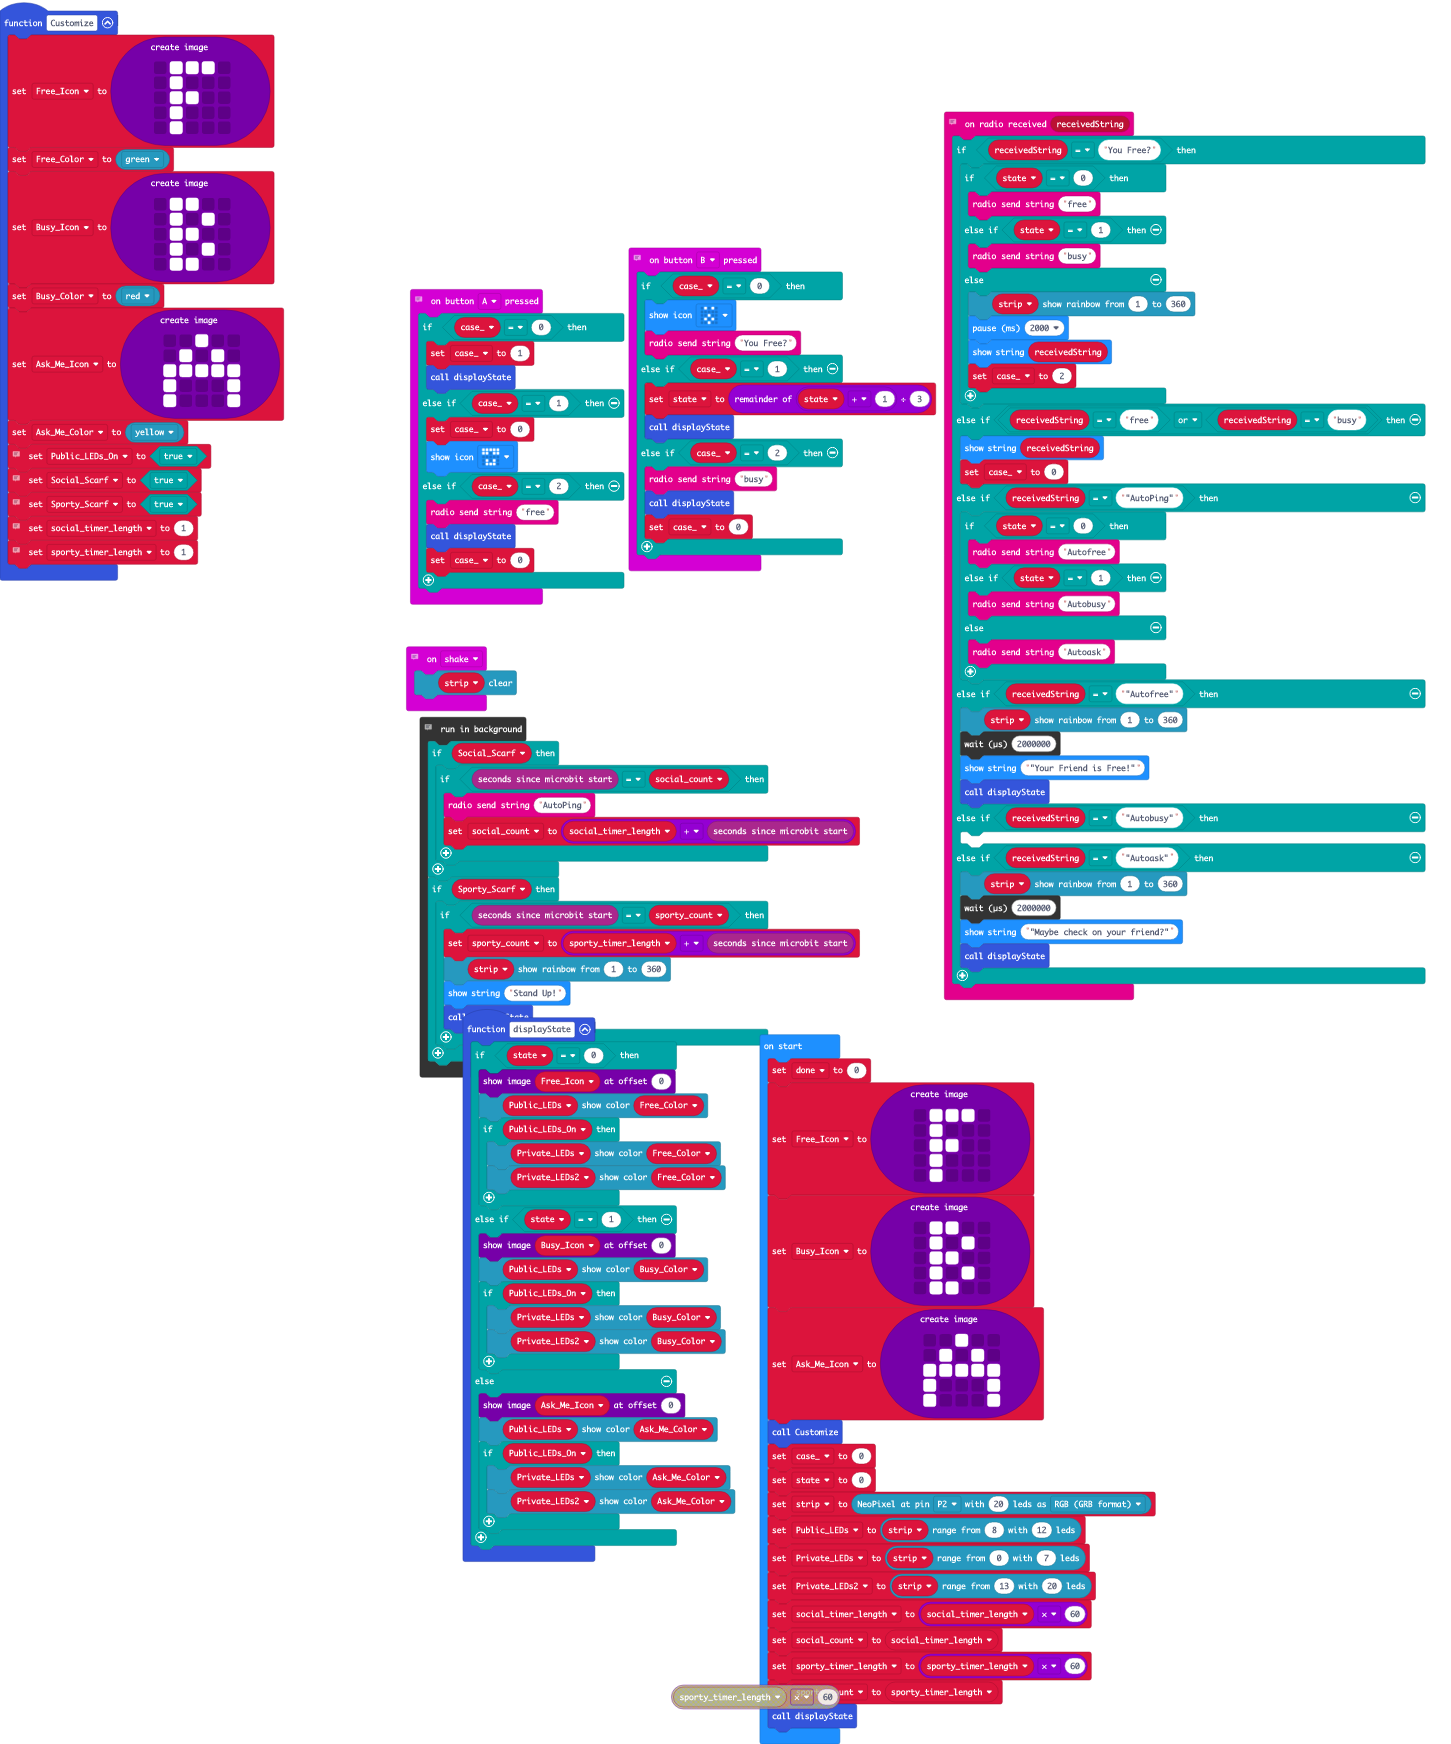
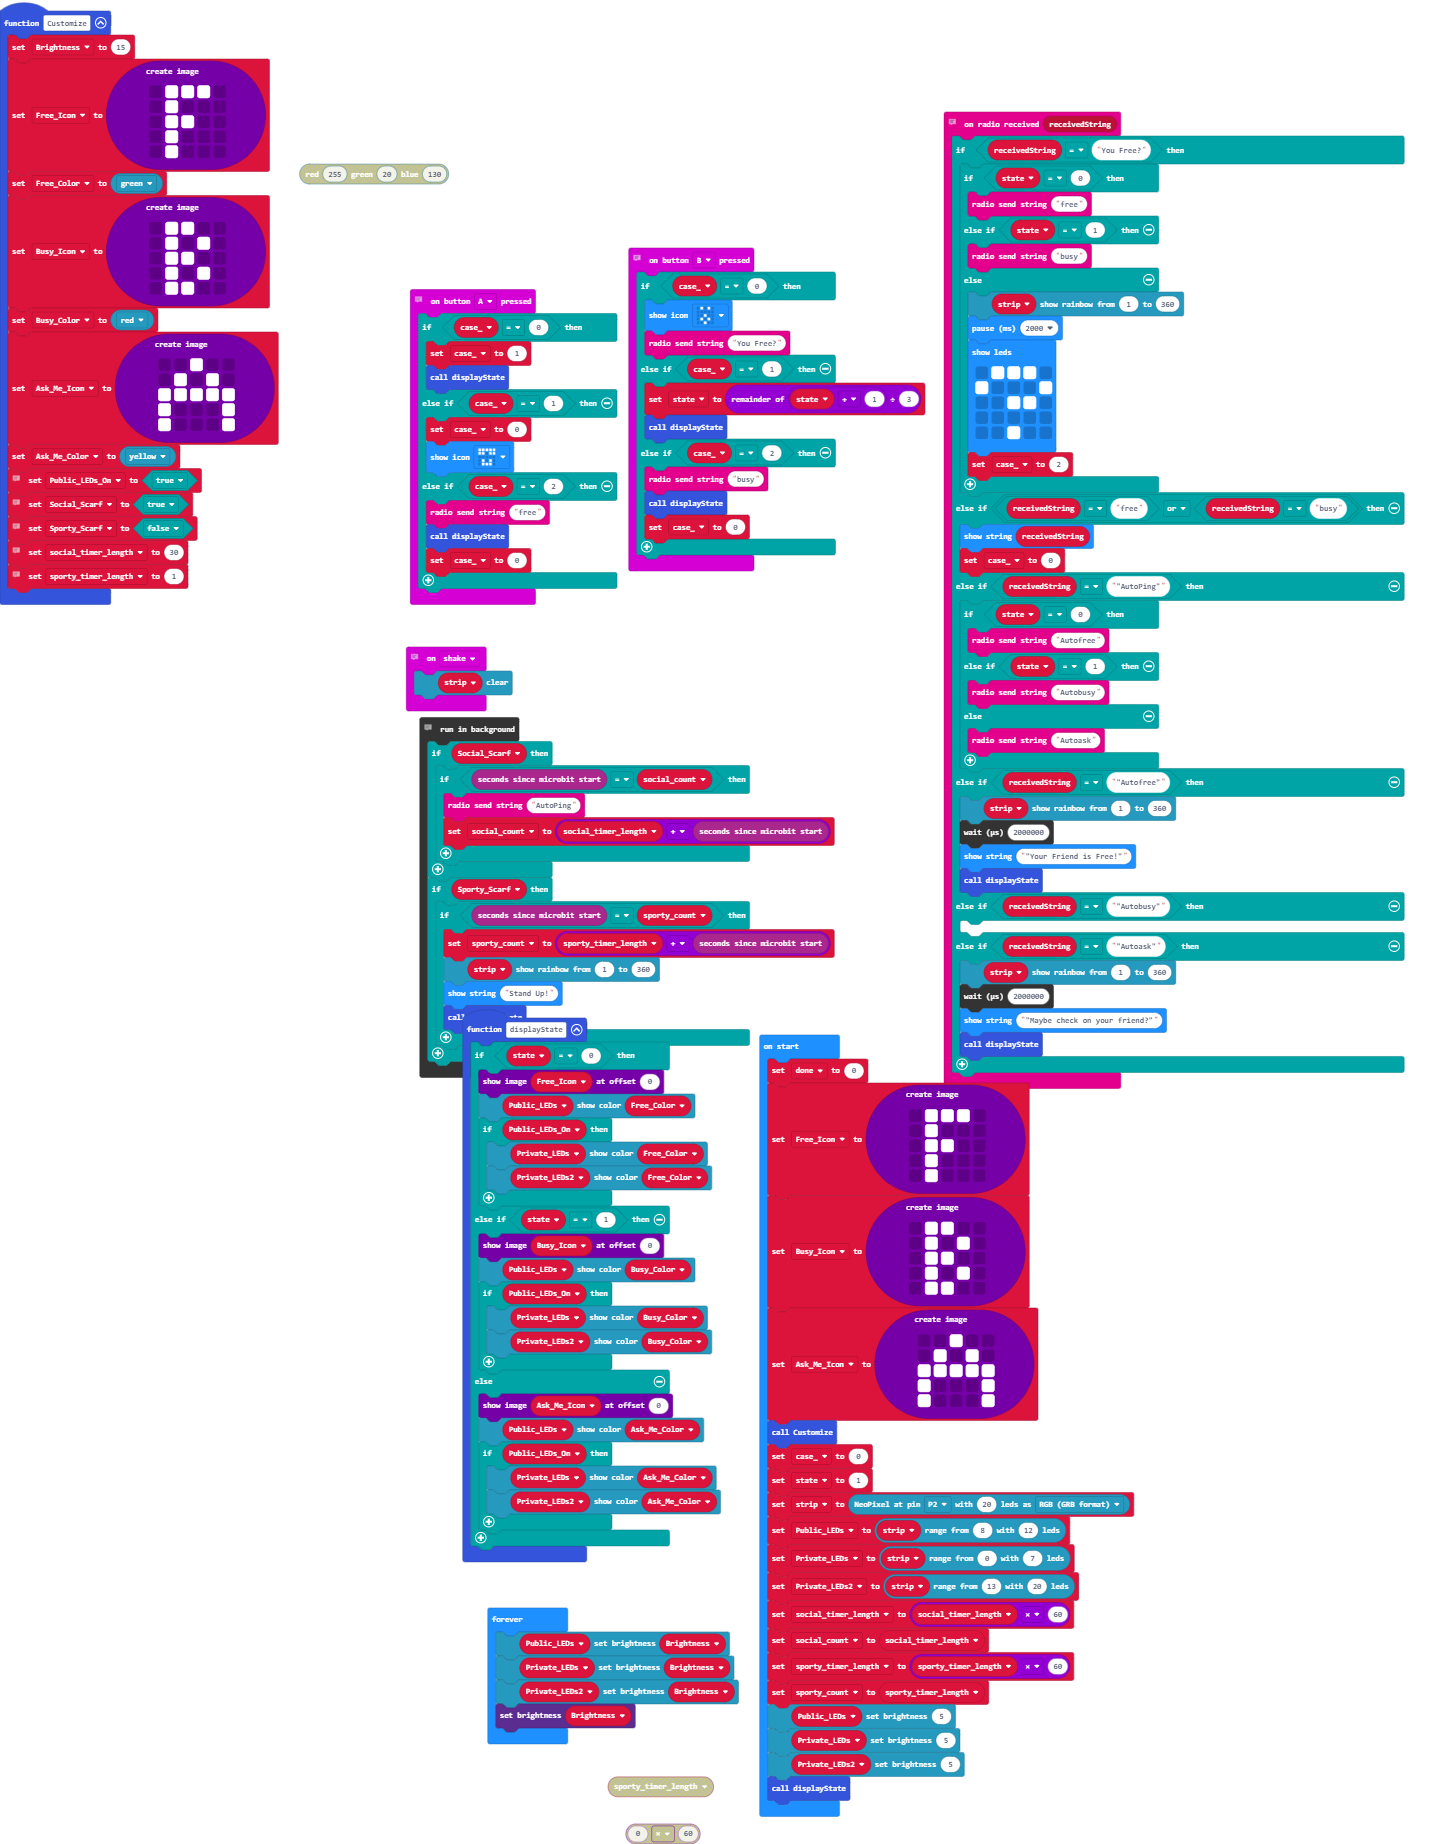
Updating Brightness for battery purposes

diff --git a/main.ts b/main.ts
@@ -23,6 +23,7 @@ function displayState () {
     }
 }
 function Customize () {
+    Brightness = 15
     Free_Icon = images.createImage(`
         . # # # .
         . # . . .
@@ -52,10 +53,10 @@ function Customize () {
     // Social Scarf Will automattically check if your friend is free based on your timer length and notify you
     Social_Scarf = true
     // Social Scarf Will automattically check if your friend is free based on your timer length and notify you
-    Sporty_Scarf = true
+    Sporty_Scarf = false
     // (In Minutes)
     // Timer length is used to handle social scarf's auto ping or sporty scarfs reminder.
-    social_timer_length = 1
+    social_timer_length = 30
     // (In Minutes)
     // Timer length is used to handle social scarf's auto ping or sporty scarfs reminder.
     sporty_timer_length = 1
@@ -85,7 +86,13 @@ radio.onReceivedString(function (receivedString) {
         } else {
             strip.showRainbow(1, 360)
             basic.pause(2000)
-            basic.showString(receivedString)
+            basic.showLeds(`
+                . # # # .
+                # . . . #
+                . . # # .
+                . . . . .
+                . . # . .
+                `)
             case_ = 2
         }
     } else if (receivedString == "free" || receivedString == "busy") {
@@ -143,6 +150,7 @@ input.onGesture(Gesture.Shake, function () {
 })
 let Sporty_Scarf = false
 let Social_Scarf = false
+let Brightness = 0
 let Ask_Me_Color = 0
 let Busy_Color = 0
 let Public_LEDs_On = false
@@ -182,7 +190,7 @@ Ask_Me_Icon = images.createImage(`
     `)
 Customize()
 case_ = 0
-state = 0
+state = 1
 strip = neopixel.create(DigitalPin.P2, 20, NeoPixelMode.RGB)
 Public_LEDs = strip.range(8, 12)
 Private_LEDs = strip.range(0, 7)
@@ -191,7 +199,16 @@ social_timer_length = social_timer_length * 60
 let social_count = social_timer_length
 sporty_timer_length = sporty_timer_length * 60
 let sporty_count = sporty_timer_length
+Public_LEDs.setBrightness(5)
+Private_LEDs.setBrightness(5)
+Private_LEDs2.setBrightness(5)
 displayState()
+basic.forever(function () {
+    Public_LEDs.setBrightness(Brightness)
+    Private_LEDs.setBrightness(Brightness)
+    Private_LEDs2.setBrightness(Brightness)
+    led.setBrightness(Brightness)
+})
 // Runs social scarf code in the background and sets the timer again (untested)
 control.inBackground(function () {
     if (Social_Scarf) {

diff --git a/main.py b/main.py
@@ -17,23 +17,6 @@ def displayState():
         if Public_LEDs_On:
             Private_LEDs.show_color(Ask_Me_Color)
             Private_LEDs2.show_color(Ask_Me_Color)
-# Case 0 is Ping, Case 1 is Set State
-# Switches Case or Sends Free if in case 2
-
-def on_button_pressed_a():
-    global case_
-    if case_ == 0:
-        case_ = 1
-        displayState()
-    elif case_ == 1:
-        case_ = 0
-        basic.show_icon(IconNames.FABULOUS)
-    elif case_ == 2:
-        radio.send_string("free")
-        displayState()
-        case_ = 0
-input.on_button_pressed(Button.A, on_button_pressed_a)
-
 def Customize():
     global Free_Icon, Free_Color, Busy_Icon, Busy_Color, Ask_Me_Icon, Ask_Me_Color, Public_LEDs_On, Social_Scarf, Timer_length
     Free_Icon = images.create_image("""
@@ -67,6 +50,23 @@ def Customize():
     # (In Minutes)
     # Timer length is used to handle social scarf's auto ping or sporty scarfs reminder.
     Timer_length = 45
+# Case 0 is Ping, Case 1 is Set State
+# Switches Case or Sends Free if in case 2
+
+def on_button_pressed_a():
+    global case_
+    if case_ == 0:
+        case_ = 1
+        displayState()
+    elif case_ == 1:
+        case_ = 0
+        basic.show_icon(IconNames.FABULOUS)
+    elif case_ == 2:
+        radio.send_string("free")
+        displayState()
+        case_ = 0
+input.on_button_pressed(Button.A, on_button_pressed_a)
+
 # case 0 is base, case 1 is change personal state, case 2 is communicate
 
 def on_received_string(receivedString):
@@ -121,21 +121,17 @@ def on_button_pressed_b():
         case_ = 0
 input.on_button_pressed(Button.B, on_button_pressed_b)
 
-"""
-
-On Button A changes the mode as well as answers Yes when asked if free.
-
-On Button B changes your interruption state if in mode 0 or pings the other person if in mode 1 as well as answers No when asked if free.
-
-On radio received handles all potential messages 
-
-DisplayState is called to show the leds depending on the interruption status
-
-On shake clears the current LED status
-
-On start sets up the LED zones as well as handles some timer stuff.
-
-"""
+# On Button A changes the mode as well as answers Yes when asked if free.
+# 
+# On Button B changes your interruption state if in mode 0 or pings the other person if in mode 1 as well as answers No when asked if free.
+# 
+# On radio received handles all potential messages
+# 
+# DisplayState is called to show the leds depending on the interruption status
+# 
+# On shake clears the current LED status
+# 
+# On start sets up the LED zones as well as handles some timer stuff.
 
 def on_gesture_shake():
     strip.clear()
@@ -156,6 +152,7 @@ case_ = 0
 Ask_Me_Icon: Image = None
 Busy_Icon: Image = None
 Free_Icon: Image = None
+done = 0
 Free_Icon = images.create_image("""
     . # # # .
     . # . . .
@@ -178,7 +175,6 @@ Ask_Me_Icon = images.create_image("""
     # . . . #
     """)
 Customize()
-done = 0
 case_ = 0
 state = 0
 strip = neopixel.create(DigitalPin.P2, 20, NeoPixelMode.RGB)
